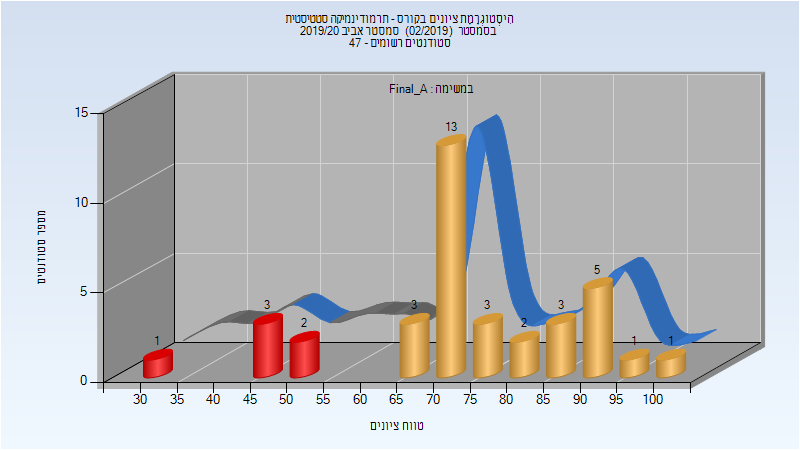
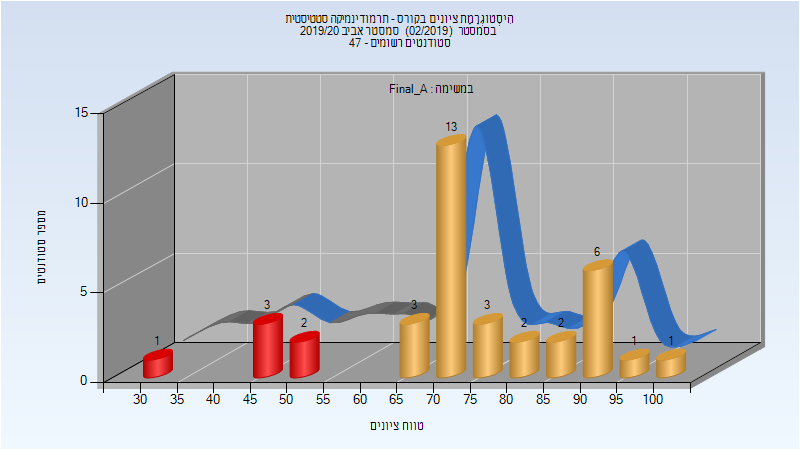
Deploy michael-maltsev/technion-histograms to github.com/michael-maltsev/technion-histograms.git:gh-pages

Changed region(s): [[0.7188, 0.5289, 0.8438, 0.7156], [0.6562, 0.6844, 0.75, 0.7778], [0.8438, 0.7156, 0.875, 0.7467]]

diff --git a/124413/index.html b/124413/index.html
@@ -376,13 +376,39 @@
 <td>70</td>
 <td>22</td>
 <td>93</td>
-<td>59.946</td>
+<td>60</td>
 <td>57</td>
 </tr>
 </tbody>
 </table>
 <h3>סופי מועד א'</h3>
 <p><img src="201902/Final_A.png" alt="201902 Final_A" /></p>
+<table>
+<thead>
+<tr>
+<th>סטודנטים</th>
+<th>עברו/נכשלו</th>
+<th>אחוז עוברים</th>
+<th>ציון מינימלי</th>
+<th>ציון מקסימלי</th>
+<th>ממוצע</th>
+<th>חציון</th>
+</tr>
+</thead>
+<tbody>
+<tr>
+<td>37</td>
+<td>31/6</td>
+<td>84</td>
+<td>33</td>
+<td>100</td>
+<td>73.514</td>
+<td>73</td>
+</tr>
+</tbody>
+</table>
+<h3>סופי</h3>
+<p><img src="201902/Finals.png" alt="201902 Finals" /></p>
 <table>
 <thead>
 <tr>

diff --git a/124413/README.md b/124413/README.md
@@ -114,11 +114,19 @@
 
 | סטודנטים | עברו/נכשלו | אחוז עוברים | ציון מינימלי | ציון מקסימלי | ממוצע | חציון |
 | ---- | ---- | ---- | ---- | ---- | ---- | ---- |
-| 37 | 26/11 | 70 | 22 | 93 | 59.946 | 57 |
+| 37 | 26/11 | 70 | 22 | 93 | 60 | 57 |
 
 ### סופי מועד א'
 
 ![201902 Final_A](201902/Final_A.png)
+
+| סטודנטים | עברו/נכשלו | אחוז עוברים | ציון מינימלי | ציון מקסימלי | ממוצע | חציון |
+| ---- | ---- | ---- | ---- | ---- | ---- | ---- |
+| 37 | 31/6 | 84 | 33 | 100 | 73.514 | 73 |
+
+### סופי
+
+![201902 Finals](201902/Finals.png)
 
 | סטודנטים | עברו/נכשלו | אחוז עוברים | ציון מינימלי | ציון מקסימלי | ממוצע | חציון |
 | ---- | ---- | ---- | ---- | ---- | ---- | ---- |
